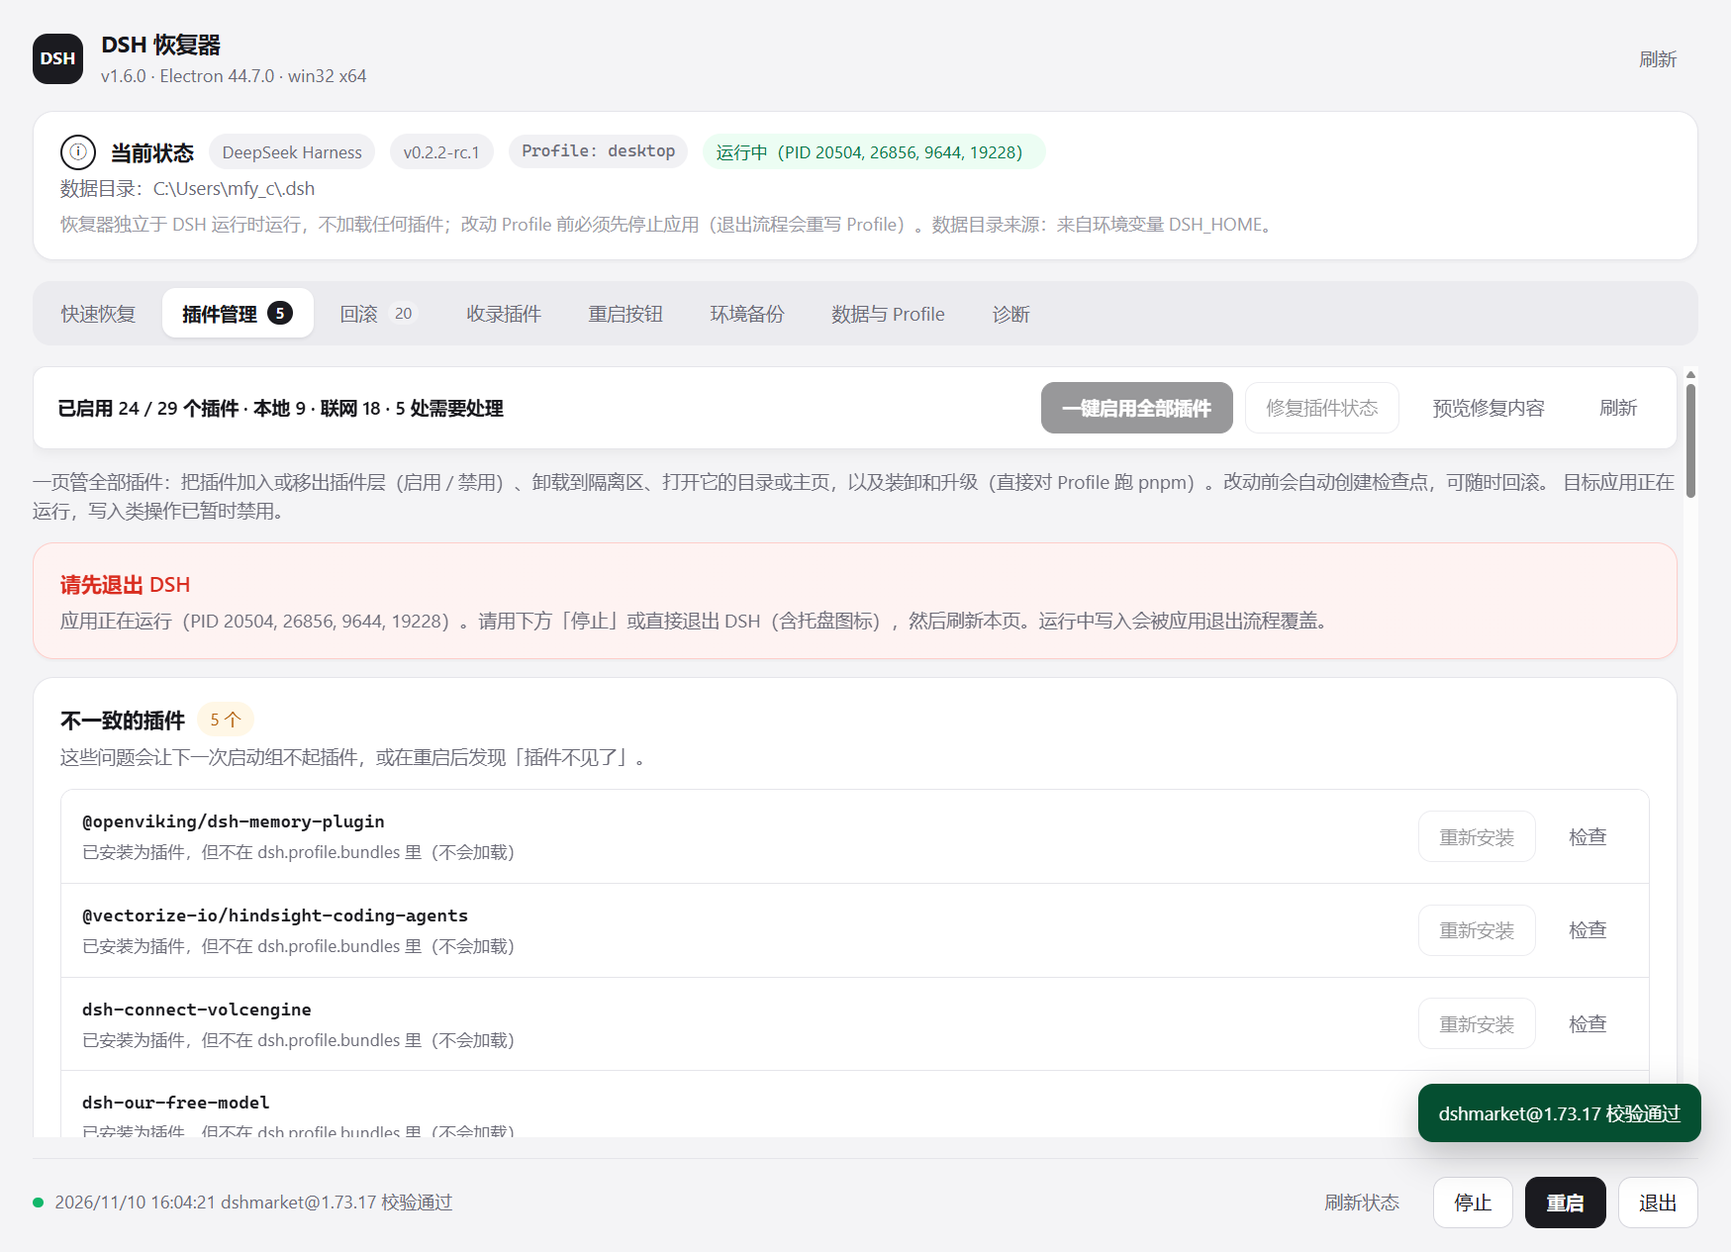
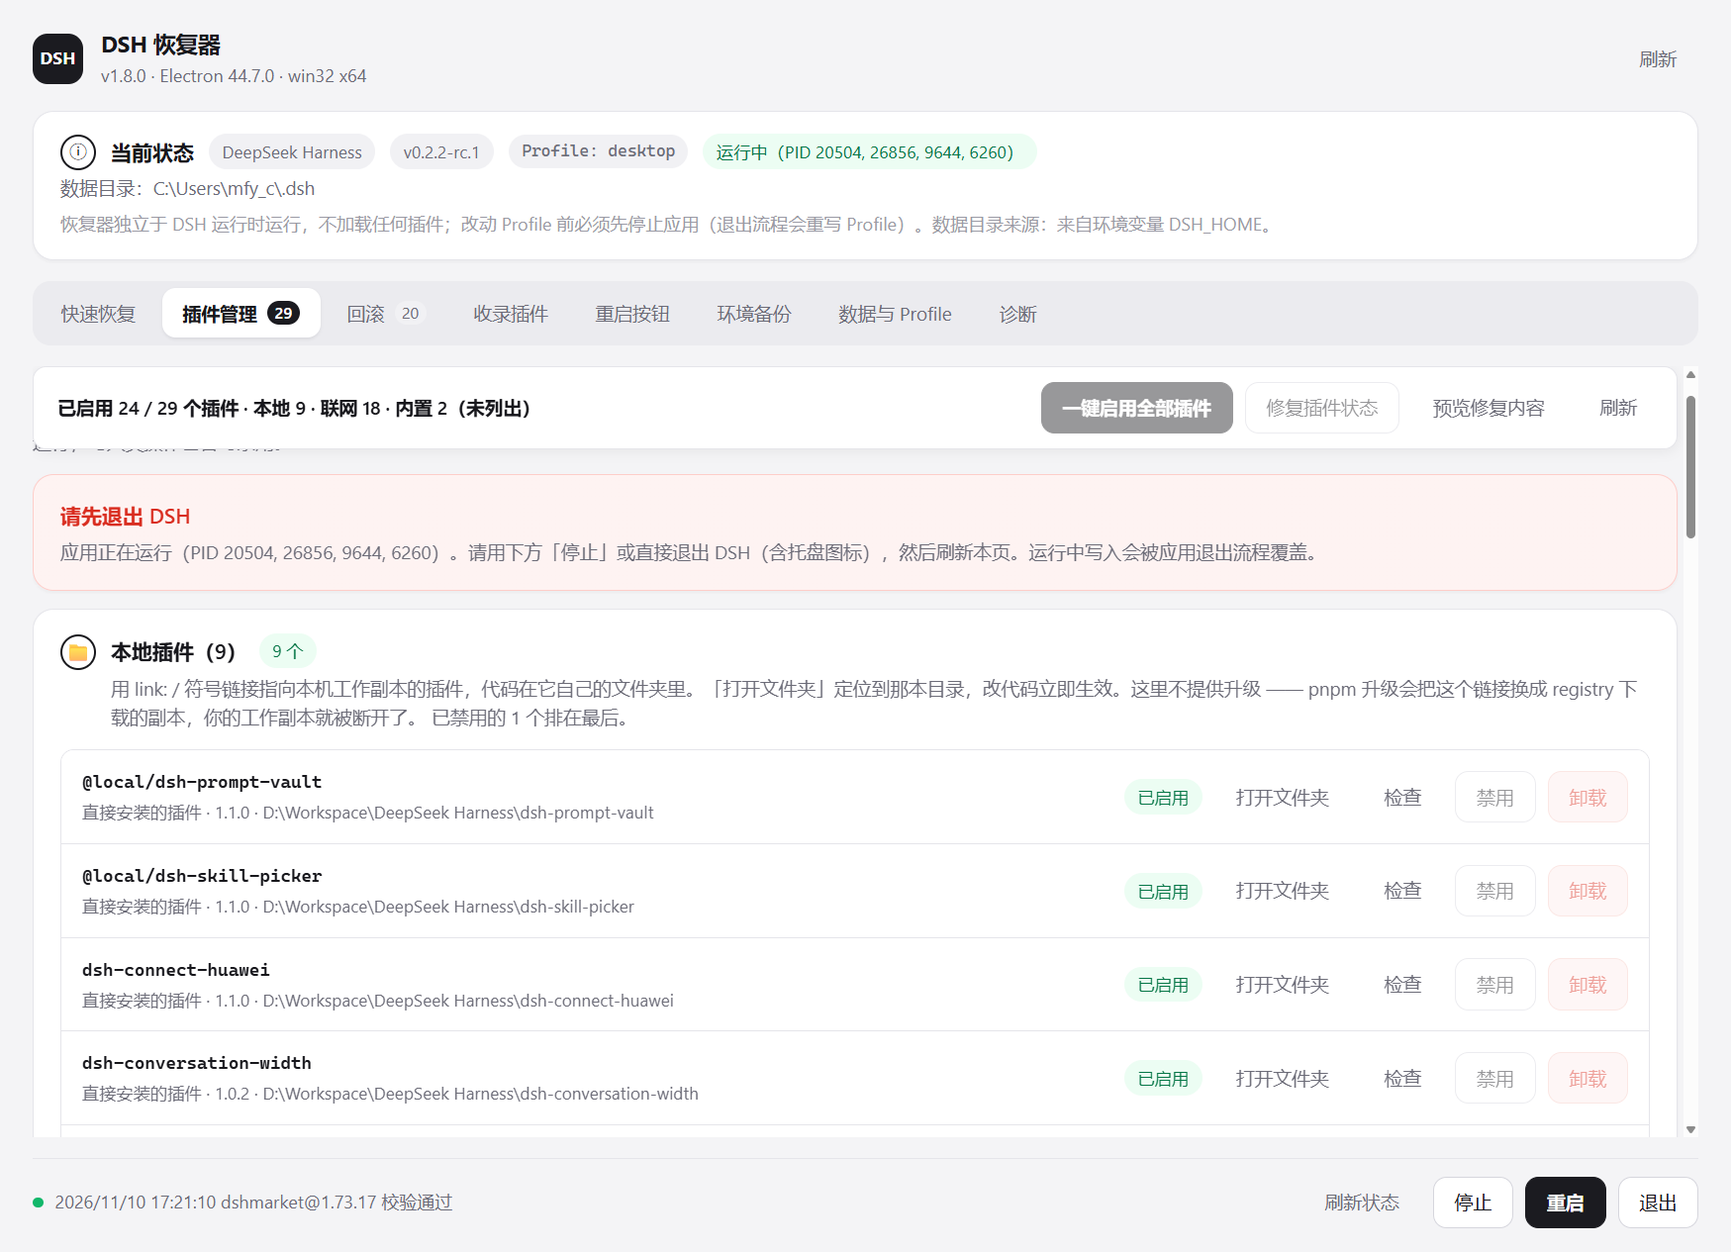
「禁用」不再算不一致、内置组件不列出、自检不再弹资源管理器
1. 禁用 ≠ 不一致
   已安装但不在 dsh.profile.bundles 里，是「关掉了这个插件」的正常写法。旧规则把它
   报成缺陷，本机因此长期挂着 5 条告警 —— 更糟的是「修复插件状态」会把这些插件
   重新启用，一次修复把用户关掉的插件全打开了。现在修复只清僵死锁/运行记录、
   删指向不存在包的条目，绝不补回插件层。真正会让组合失败的相反方向（在层里却
   没声明 dsh.bundle）仍然报警。

2. 内置组件不再列出
   既不能禁用也不能卸载，且每个 Profile 永远是同样两个，列出来只会把要操作的插件
   挤出屏幕。顶部操作条改为显示「内置 N（未列出）」，不算悄悄隐藏。

3. 每组内已禁用的排到最后
   本地插件、联网插件各自排序，启用中的先看。

4. 快速恢复去掉「插件管理」摘要卡
   只是把插件页已有的数字再抄一遍，还多一次点击。

5. 自检不再弹出资源管理器（修 bug）
   --verify 会调 recovery:open-plugin 验证「打开」目标解析，那条路径最终执行
   shell.showItemInFolder()，于是每次自检都在桌面上弹文件管理器、留下
   verify-<时间戳> 文件夹。现在控制器带 allowShell 开关，headless 传 false：
   动作照常解析并返回目标（这正是断言的对象），只是不交给操作系统。

--verify 131 项：新增「自检不会真的弹出资源管理器」，并把原先「修复补回被丢掉的
插件层条目」反转为「修复不擅自重新启用已禁用的插件」。抑制失效时断言立刻失败（已验证）。
--ui-check 新增：不渲染「内置组件」分组、每组内已禁用的排在最后（按 DOM 行序算）。

自检：--self-check ok / --verify 131 项全过 / --ui-check 0 issues。

diff --git a/app/renderer/app.js b/app/renderer/app.js
@@ -731,7 +731,6 @@ function panel(id, nodes) {
 // --- panel: quick recovery ------------------------------------------------
 
 function renderQuick() {
-  const detail = state.selectedProfileDetail;
   const running = state.running.isRunning;
   const source = state.selected?.exe;
 
@@ -752,21 +751,9 @@ function renderQuick() {
           : button("显示临时目录", "show-item", state.safeModeHomes[state.safeModeHomes.length - 1].dir),
       ],
     }),
-    card({
-      icon: "⚙",
-      title: "插件管理",
-      desc: "安装或更新插件后出现问题？查看当前 Profile 的插件，禁用或卸载可能引发问题的第三方插件。",
-      body:
-        detail === undefined || detail.exists !== true
-          ? empty("Profile 目录不存在，无法读取插件。")
-          : metrics([
-              ["已启用的插件层", String(detail.bundles.length)],
-              ["已安装的组合包", String(detail.plugins.length)],
-              ["隔离区中的包", String(detail.removed.length)],
-              ["补丁条目", `${detail.patchEntries.length}（禁用 ${detail.patchDisabledCount}）`],
-            ]),
-      actions: [button("管理插件", "tab", "plugins", { className: "btn--primary" })],
-    }),
+    // The「插件管理」summary card that used to sit here is gone: it only
+    // repeated numbers the 插件管理 tab already shows in its own header, behind
+    // one extra click. Plugin work starts from the tab bar.
     card({
       icon: "⚡",
       title: "重置插件集",
@@ -970,6 +957,7 @@ function renderPlugins() {
   const nodes = [
     panelBar(
       `已启用 ${enabledCount} / ${bundles.length} 个插件 · 本地 ${localPlugins.length} · 联网 ${registryPlugins.length}` +
+        (builtinPlugins.length > 0 ? ` · 内置 ${builtinPlugins.length}（未列出）` : "") +
         (patchDisabledCount > 0 ? ` · 补丁层禁用 ${patchDisabledCount} 条` : "") +
         (problemCount > 0 ? ` · ${problemCount} 处需要处理` : ""),
       [
@@ -1096,45 +1084,56 @@ function renderPlugins() {
   }
 
   // --- the plugins themselves ---------------------------------------------
+  //
+  // 内置组件 are not shown. They ship inside the application, cannot be
+  // toggled or uninstalled, and every profile always has the same two — listing
+  // them pushed the plugins the user can actually act on below the fold.
+  // Their count stays in the summary bar so nothing looks hidden.
+  //
+  // Within each group, disabled rows sink to the bottom: the enabled ones are
+  // what the page is for, and a long list otherwise buries them among plugins
+  // the user already turned off.
+  const byEnabledThenName = (left, right) => {
+    const leftOff = left.enabled === true ? 0 : 1;
+    const rightOff = right.enabled === true ? 0 : 1;
+    if (leftOff !== rightOff) return leftOff - rightOff;
+    return left.name.localeCompare(right.name, "en");
+  };
+
   if (bundles.length === 0) {
     nodes.push(card({ title: "插件", desc: `Profile ${detail.name} · 清单 ${detail.manifestPath}`, body: empty("这个 Profile 还没有启用任何插件。") }));
   }
 
   if (localPlugins.length > 0) {
+    const sorted = [...localPlugins].sort(byEnabledThenName);
+    const offCountLocal = sorted.filter((plugin) => plugin.enabled !== true).length;
     nodes.push(
       card({
         title: `本地插件（${localPlugins.length}）`,
         icon: "📁",
-        desc: "用 link: / 符号链接指向本机工作副本的插件，代码在它自己的文件夹里。「打开文件夹」定位到那本目录，改代码立即生效。这里不提供升级 —— pnpm 升级会把这个链接换成 registry 下载的副本，你的工作副本就被断开了。",
+        desc:
+          "用 link: / 符号链接指向本机工作副本的插件，代码在它自己的文件夹里。「打开文件夹」定位到那本目录，改代码立即生效。这里不提供升级 —— pnpm 升级会把这个链接换成 registry 下载的副本，你的工作副本就被断开了。" +
+          (offCountLocal > 0 ? ` 已禁用的 ${offCountLocal} 个排在最后。` : ""),
         tags: [chip(`${localPlugins.length} 个`, "ok")],
-        body: list(localPlugins.map((plugin) => pluginRow(plugin, updaterByName.get(plugin.name), running))),
+        body: list(sorted.map((plugin) => pluginRow(plugin, updaterByName.get(plugin.name), running))),
       }),
     );
   }
 
   if (registryPlugins.length > 0) {
+    const sorted = [...registryPlugins].sort(byEnabledThenName);
     const noHome = registryPlugins.filter((plugin) => typeof plugin.homepage !== "string").length;
+    const offCountRegistry = sorted.filter((plugin) => plugin.enabled !== true).length;
     nodes.push(
       card({
         title: `联网插件（${registryPlugins.length}）`,
         icon: "🌐",
         desc:
           `从 npm 安装进 Profile 的插件：「打开官网」打开项目主页，「升级」用 pnpm 重新解析最新版本（包括固定版本号的那些），装完再校验入口文件与插件层条目。${registryPlugins.length} 个` +
-          (noHome > 0 ? `，其中 ${noHome} 个没有声明 homepage / repository，无法打开主页。` : "。"),
+          (noHome > 0 ? `，其中 ${noHome} 个没有声明 homepage / repository，无法打开主页` : "") +
+          (offCountRegistry > 0 ? `；已禁用的 ${offCountRegistry} 个排在最后。` : "。"),
         tags: [chip(`${registryPlugins.length} 个`)],
-        body: list(registryPlugins.map((plugin) => pluginRow(plugin, updaterByName.get(plugin.name), running))),
-      }),
-    );
-  }
-
-  if (builtinPlugins.length > 0) {
-    nodes.push(
-      card({
-        title: `内置组件（${builtinPlugins.length}）`,
-        icon: "🧩",
-        desc: "随应用一起发布的组件，不能禁用也不能卸载；「打开文件夹」定位到 Profile 内的安装副本。",
-        tags: [chip(`${builtinPlugins.length} 个`, "muted")],
-        body: list(builtinPlugins.map((plugin) => pluginRow(plugin, updaterByName.get(plugin.name), running))),
+        body: list(sorted.map((plugin) => pluginRow(plugin, updaterByName.get(plugin.name), running))),
       }),
     );
   }

diff --git a/app/main.js b/app/main.js
@@ -226,6 +226,49 @@ async function runUiCheck({ shot }) {
     // or the footer; that used to happen when a missing action was appended
     // with the native DOM append.
     if (/undefined/u.test(pluginsPanel.text)) issues.push("插件管理面板出现了 undefined 文字");
+
+    // 内置组件 must not be rendered as a group any more: they cannot be toggled
+    // or uninstalled, and they pushed actionable plugins below the fold. The
+    // headline keeps their count so nothing is silently hidden.
+    const builtinCard = await win.webContents.executeJavaScript(
+      `(() => {
+        const p = document.querySelector('.panel[data-panel="plugins"]');
+        if (p === null) return null;
+        const titles = [...p.querySelectorAll('section.card .card__title')].map((n) => n.textContent ?? '');
+        return { titles, text: p.innerText };
+      })()`,
+    );
+    if (builtinCard !== null) {
+      const builtinTitled = builtinCard.titles.filter((title) => title.startsWith("内置组件"));
+      if (builtinTitled.length > 0) issues.push(`插件管理：仍在渲染「内置组件」分组（${builtinTitled.join(", ")}）`);
+    }
+
+    // Within each group, disabled rows must sort last. Checked per card so a
+    // regression in either the local or the registry list is caught.
+    const ordering = await win.webContents.executeJavaScript(
+      `(() => {
+        const p = document.querySelector('.panel[data-panel="plugins"]');
+        if (p === null) return null;
+        const out = {};
+        for (const card of p.querySelectorAll('section.card')) {
+          const title = card.querySelector('.card__title')?.textContent ?? '';
+          if (!title.startsWith('本地插件') && !title.startsWith('联网插件')) continue;
+          const rows = [...card.querySelectorAll('.row.row--plugin')].map((row) => ({
+            enabled: (row.innerText ?? '').includes('已启用'),
+          }));
+          const firstOff = rows.findIndex((row) => row.enabled !== true);
+          const lastOn = rows.map((row) => row.enabled === true).lastIndexOf(true);
+          out[title.split('（')[0]] = { rows: rows.length, firstOff, lastOn };
+        }
+        return out;
+      })()`,
+    );
+    for (const [group, info] of Object.entries(ordering ?? {})) {
+      if (info.firstOff === -1) continue;
+      if (info.lastOn > info.firstOff) {
+        issues.push(`插件管理：${group} 里启用的插件排在了已禁用之后（首个禁用在第 ${info.firstOff + 1} 行，最后启用在第 ${info.lastOn + 1} 行）`);
+      }
+    }
   }
   const footerText = await win.webContents.executeJavaScript("document.getElementById('footer-actions')?.innerText ?? ''");
   if (/undefined/u.test(footerText)) issues.push(`页脚出现了 undefined 文字：${footerText.trim()}`);
@@ -647,7 +690,11 @@ function createWindow() {
 }
 
 const ready = (async () => {
-  controller = new RecoveryController({ version: app.getVersion(), onState: broadcast });
+  // `--verify` / `--self-check` must not hand anything to the OS: the 打开
+  // assertions would open a File Explorer window per check and leave a trail of
+  // `verify-<timestamp>` folders on the desktop. The actions still resolve and
+  // return their target, which is what the checks actually assert.
+  controller = new RecoveryController({ version: app.getVersion(), onState: broadcast, allowShell: headless !== true });
   const targetId = argvValue("--target=");
   const profileName = argvValue("--profile=");
   const dshHome = argvValue("--home=");

diff --git a/app/backend/verify.js b/app/backend/verify.js
@@ -739,6 +739,15 @@ async function verifyPluginManagement(controller, fixture, result) {
       String(openLocal.result?.opened).toLowerCase() === path.resolve(linkedTarget).toLowerCase(),
     errorText(openLocal) ?? openLocal.result?.opened,
   );
+  // The controller the self tests build has `allowShell: false`, so asserting
+  // here proves the resolution still happens while nothing is handed to the OS.
+  // (Without it, every `--verify` run opened File Explorer windows and left a
+  // trail of `verify-<timestamp>` folders on the desktop.)
+  result.ok(
+    "插件管理: 自检不会真的弹出资源管理器",
+    controller.allowShell === false,
+    `allowShell=${controller.allowShell}`,
+  );
   const openUnknown = await controller.dispatch("recovery:open-plugin", ["not-a-plugin"]);
   result.ok("插件管理: 未知插件名的「打开」被拒绝", openUnknown.ok === false, errorText(openUnknown));
   // A registry package with neither homepage nor repository must fail loudly
@@ -805,11 +814,10 @@ async function verifyPluginUpdater(controller, fixture, result) {
   fs.writeFileSync(runPath, JSON.stringify({ pid: 999998, grouped: false }));
 
   // The #935 shape: a bundle on disk whose row the host dropped on its way to
-  // refusing an update.
+  // refusing an update. The layer is emptied on purpose — that is the "disabled"
+  // state, and repair must leave it alone — then an unbacked row is added, which
+  // would stop the next boot from composing and IS repair's business.
   const dropped = readJson(manifestPath);
-  dropped.value.dsh.profile.bundles = [];
-  writeJsonAtomic(manifestPath, dropped.value);
-  // An unbacked row, which would stop the next boot from composing.
   dropped.value.dsh.profile.bundles = ["ghost-from-a-failed-install"];
   writeJsonAtomic(manifestPath, dropped.value);
 
@@ -830,8 +838,12 @@ async function verifyPluginUpdater(controller, fixture, result) {
     errorText(repaired),
   );
   result.ok(
-    "插件更新: 修复补回被丢掉的插件层条目",
-    repairedBundles.includes(FIXTURE_BUNDLE),
+    // This used to assert the opposite ("补回被丢掉的插件层条目"). Leaving a
+    // package out of `dsh.profile.bundles` is how a plugin is disabled while
+    // staying installed, so 修复插件状态 must not re-enable it — repairing
+    // breakage is not the same as overruling a choice.
+    "插件更新: 修复不擅自重新启用已禁用的插件",
+    !repairedBundles.includes(FIXTURE_BUNDLE),
     JSON.stringify(repairedBundles),
   );
   result.ok(
@@ -1543,7 +1555,10 @@ async function runVerify({ version, targets }) {
 
   const { RecoveryController } = require("./ipc");
   try {
-    const controller = new RecoveryController({ version });
+    // `allowShell: false` keeps every 打开 assertion from actually launching
+    // File Explorer. The actions still resolve and return their target, which is
+    // what these checks assert; only the OS hand-off is skipped.
+    const controller = new RecoveryController({ version, allowShell: false });
     // Point the controller at the fixture in memory only: nothing is persisted,
     // so the real config file keeps whatever the user selected.
     controller.config = {

diff --git a/app/backend/ipc.js b/app/backend/ipc.js
@@ -48,9 +48,19 @@ function describeError(error) {
 }
 
 class RecoveryController {
-  constructor({ version, onState }) {
+  constructor({ version, onState, allowShell = true }) {
     this.version = version;
     this.onState = onState;
+    // Whether the console may actually hand a path or URL to the OS.
+    //
+    // `--verify` exercises 打开 actions (open-plugin / open-path) to prove they
+    // resolve the right target, and those call `shell.showItemInFolder()` /
+    // `shell.openPath()` — which pop a File Explorer window on the developer's
+    // desktop for every assertion. A self test must never do that, so headless
+    // runs construct the controller with `allowShell: false`: the actions still
+    // compute and return their result (that is what is asserted), they just do
+    // not touch the OS.
+    this.allowShell = allowShell !== false;
     this.config = { ...paths.loadConfig().value };
     this.selectedProfile = typeof this.config.profileName === "string" && this.config.profileName !== "" ? this.config.profileName : "desktop";
     this.lastAction = undefined;
@@ -608,13 +618,13 @@ class RecoveryController {
           // Deliberately outside assertOpenable(): this folder is the plugin's
           // own source, wherever it lives, and it is read from our own state
           // rather than from the renderer.
-          shell.showItemInFolder(folder);
+          if (this.allowShell) shell.showItemInFolder(folder);
           return { ok: true, result: { message: `已在文件管理器中定位 ${folder}`, opened: folder, kind: "folder" }, state: this.state };
         }
         if (typeof plugin.homepage !== "string" || !/^https?:\/\//iu.test(plugin.homepage)) {
           return { ok: false, error: `${name} 没有可打开的主页（package.json 里没有 homepage / repository）`, state: this.state };
         }
-        await shell.openExternal(plugin.homepage);
+        if (this.allowShell) await shell.openExternal(plugin.homepage);
         return { ok: true, result: { message: `已在浏览器中打开 ${plugin.homepage}`, opened: plugin.homepage, kind: "homepage" }, state: this.state };
       }
 
@@ -1585,6 +1595,10 @@ class RecoveryController {
 
   async openPath(target) {
     const resolved = this.assertOpenable(target);
+    // Validation still runs headlessly (that is what the tests assert); only the
+    // OS hand-off is skipped, so a `--verify` run does not litter the desktop
+    // with Explorer windows.
+    if (!this.allowShell) return { ok: true, state: this.state, result: { opened: resolved, suppressed: true } };
     if (isDirectory(resolved)) {
       const error = await shell.openPath(resolved);
       if (error !== "") return { ok: false, error, state: this.state };
@@ -1597,8 +1611,8 @@ class RecoveryController {
 
   showItem(target) {
     const resolved = this.assertOpenable(target);
-    shell.showItemInFolder(resolved);
-    return { ok: true, state: this.state, result: { revealed: resolved } };
+    if (this.allowShell) shell.showItemInFolder(resolved);
+    return { ok: true, state: this.state, result: { revealed: resolved, suppressed: this.allowShell !== true || undefined } };
   }
 }
 

diff --git a/app/backend/plugin-updater.js b/app/backend/plugin-updater.js
@@ -797,7 +797,13 @@ function inspectProfile(dir, options = {}) {
     }
     if (row.declared === undefined && row.version !== undefined) row.problems.push("磁盘上已安装，但没有写进 package.json");
     if (row.declared !== undefined && row.version === undefined) row.problems.push("package.json 里有声明，但 node_modules 里没有（重启后组不起来）");
-    if (row.bundle && !row.inBundles) row.problems.push("已安装为插件，但不在 dsh.profile.bundles 里（不会加载）");
+    // An installed plugin that is not in `dsh.profile.bundles` is DISABLED, not
+    // broken. Leaving a package out of the layer is the supported way to turn a
+    // plugin off while keeping it installed, so treating it as an inconsistency
+    // made the console cry wolf about a state the user chose on purpose — and
+    // 「修复插件状态」 would then helpfully re-enable it. Only the opposite
+    // direction (in the layer but declares no dsh.bundle) actually breaks
+    // composition.
     if (!row.bundle && row.inBundles && row.version !== undefined) row.problems.push("列在 dsh.profile.bundles 里，但没有声明 dsh.bundle（会让组合失败）");
     if (row.entryDeclared && row.entry === undefined) row.problems.push("声明了入口文件，但文件不存在（构建不完整）");
     if (row.patchMissing !== null) row.problems.push(row.patchMissing?.invalid ?? `补丁文件不存在: ${row.patchMissing.file}`);
@@ -952,11 +958,14 @@ function repair(dir, options = {}) {
     next.push(name);
   }
   for (const name of Object.keys(dependencies)) {
-    if (isBundle(installedManifest(dir, name)) && !next.includes(name)) {
-      lines.push({ level: "ok", text: `${name}: 已安装为插件但不在插件层 —— 已补回 dsh.profile.bundles` });
-      next.push(name);
-      bundlesChanged = true;
-    }
+    // Deliberately NOT re-added to `dsh.profile.bundles`.
+    //
+    // This used to say "已安装为插件但不在插件层 —— 已补回", on the theory that a
+    // missing layer entry was always host damage. It is not: leaving a package
+    // out of the layer is how a plugin gets disabled while staying installed,
+    // and 修复插件状态 is supposed to repair breakage, not overrule a choice.
+    // Silently re-enabling a plugin the user turned off is exactly the kind of
+    // "repair that changes what I configured" nobody wants.
   }
 
   if (bundlesChanged) {
